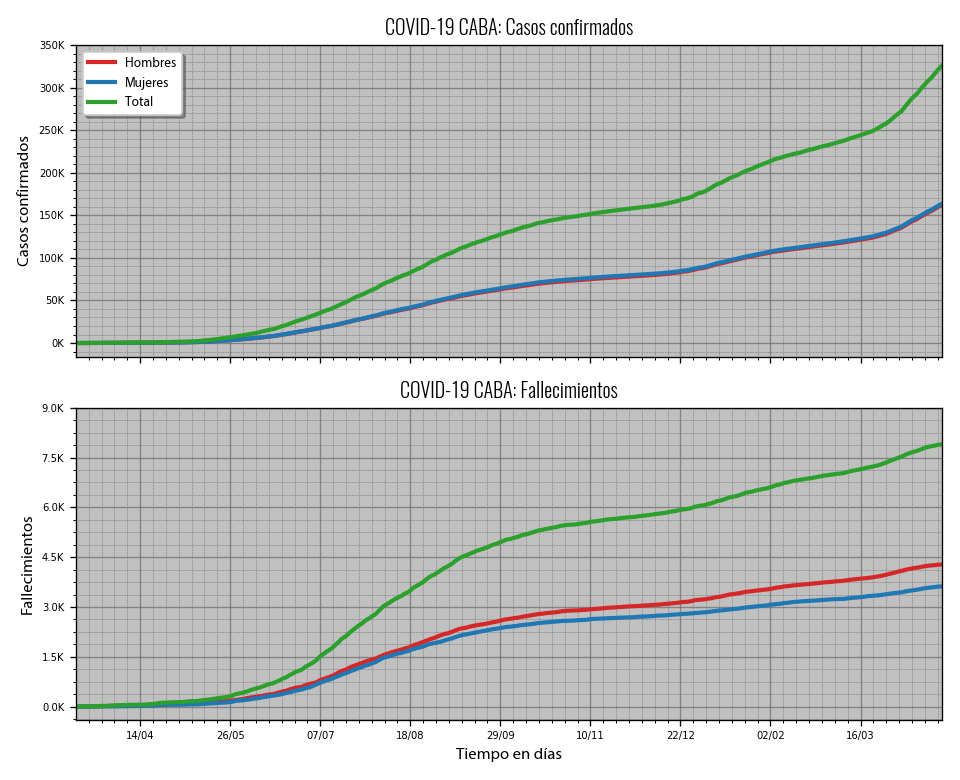
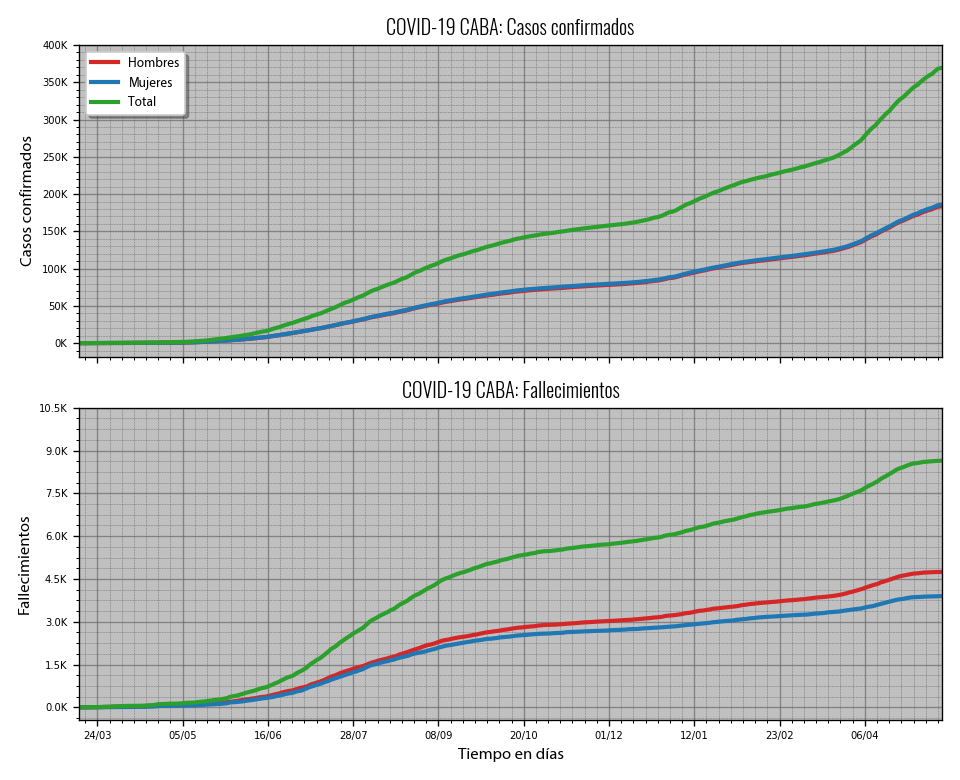
Updating charts...

Changed region(s): [[0.0, 0.0, 1.0, 0.9846], [0.0312, 0.0308, 0.0625, 0.0615]]

diff --git a/chart_config.py b/chart_config.py
@@ -26,12 +26,12 @@ language = 1 #0 = english, 1 = spanish
 legend_text_size = 8
 plot_scale = "linear"
 start_date = "2020-11-01"
+end_date = "2021-05-14"
 week_interval = 3
 v_start_date = "2021-01-01"
 v_week_interval = 2
 e_start_date = "2020-03-15"
 e_week_interval = 6
-end_date = "2021-04-23"
 
 if language == 1:
 	date_format = mdates.DateFormatter("%d/%m")
@@ -43,6 +43,7 @@ def save_plot(name, figure, code):
 		plt.yscale(plot_scale)
 	plt.tight_layout(rect=[0, 0, 1, 1])
 	plt.savefig(chart_path + code + "_" + str(language) + "_" + name + ".png", facecolor=figure.get_facecolor())
+	plt.close(figure)
 	print("-- The chart was saved!", end="\n")
 
 def grid_and_ticks(y_min, y_max, ticks_interval, ticks_divisor, dp):
